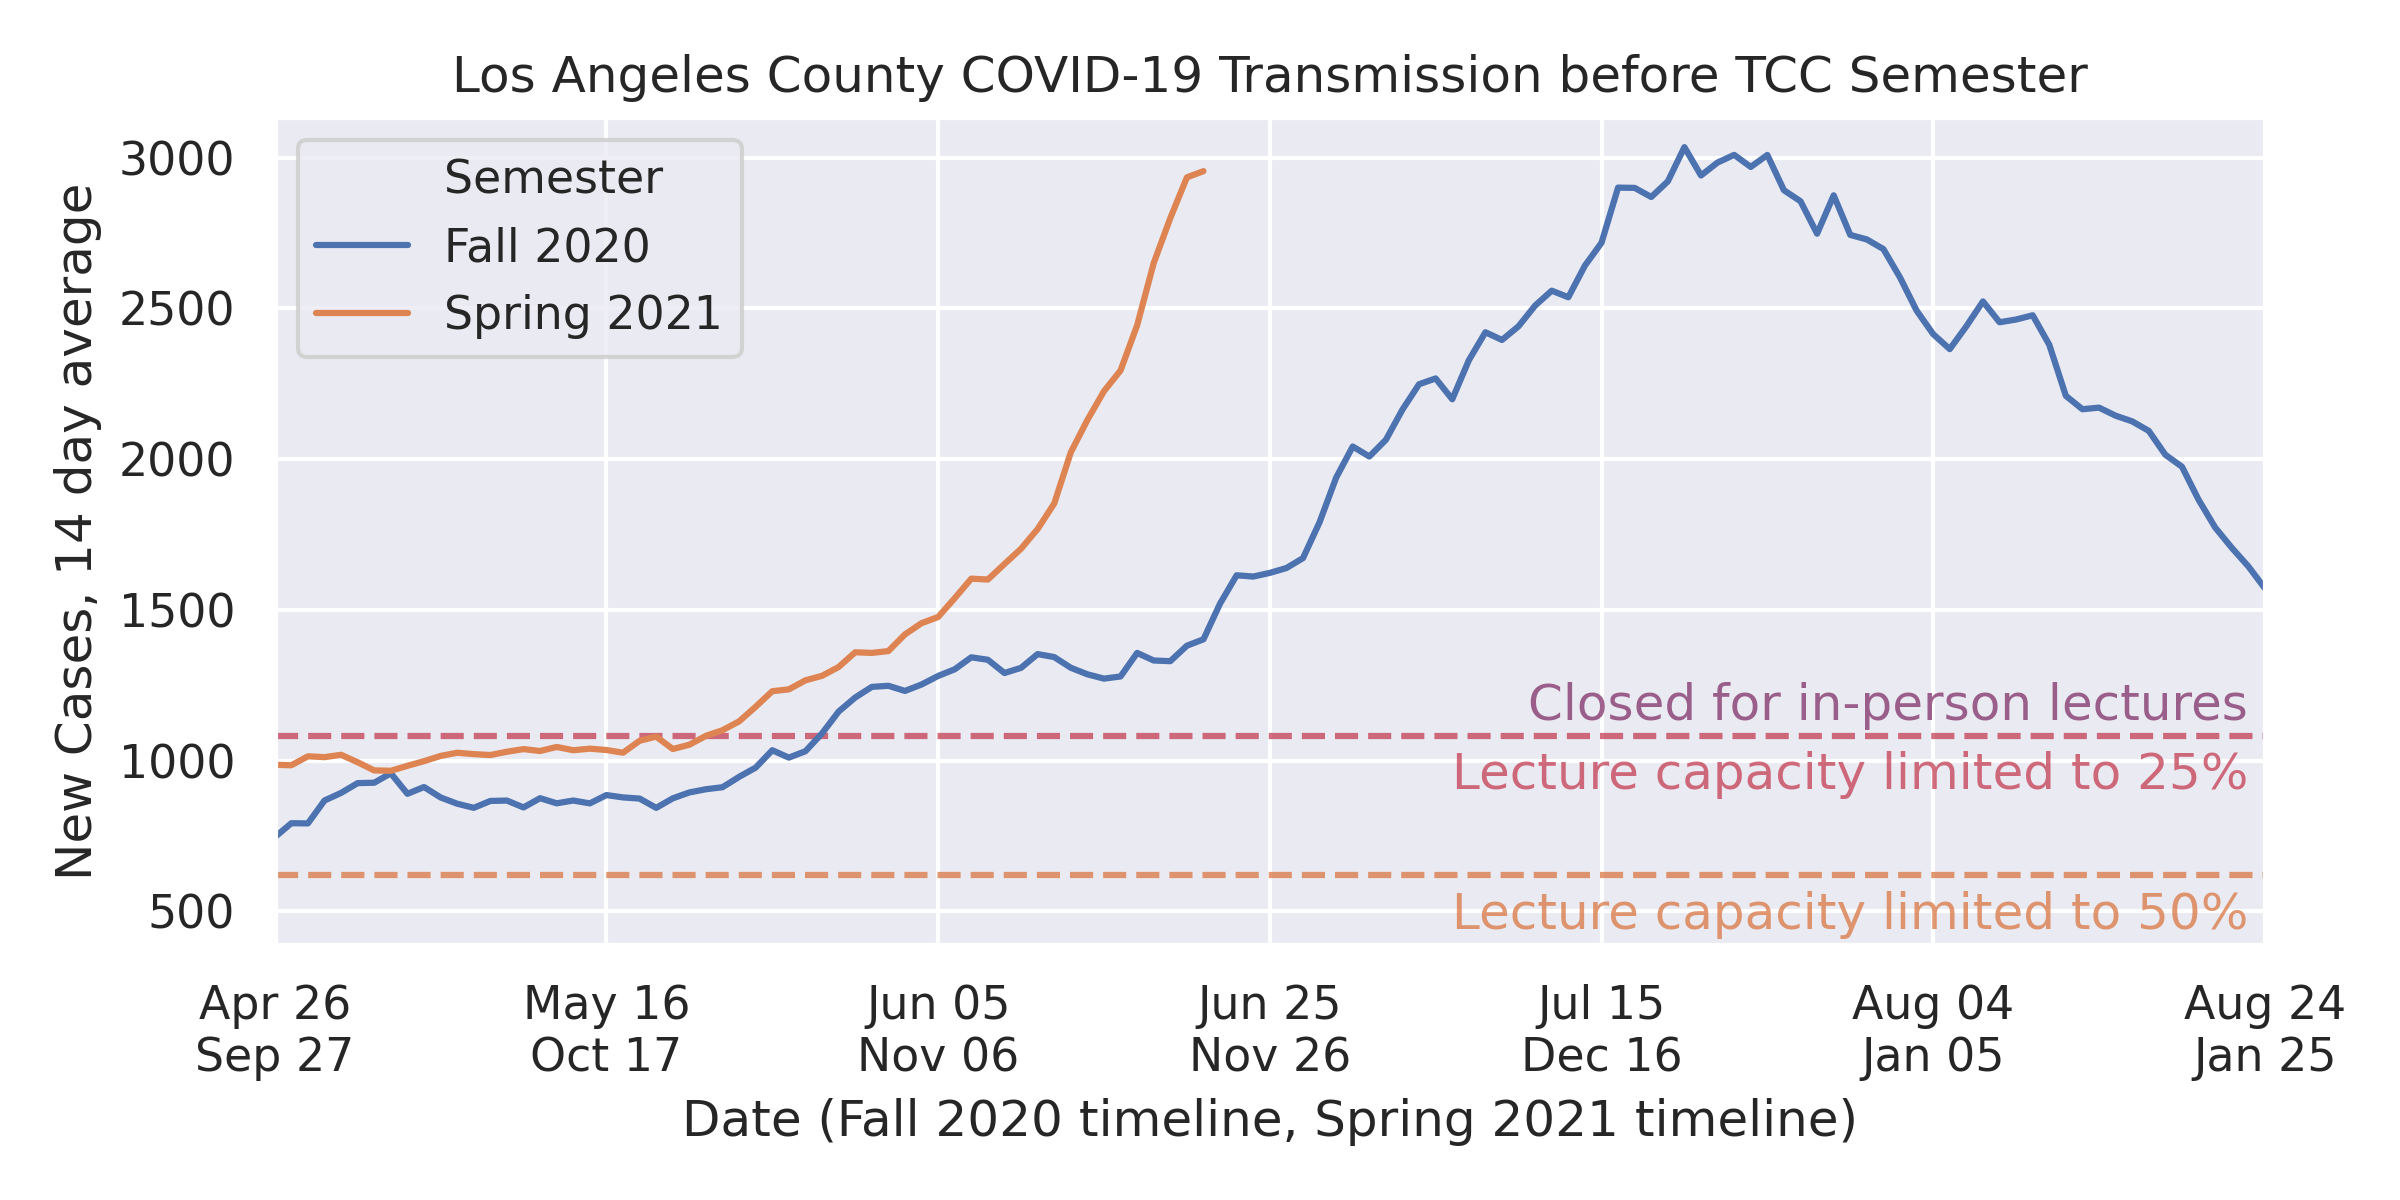
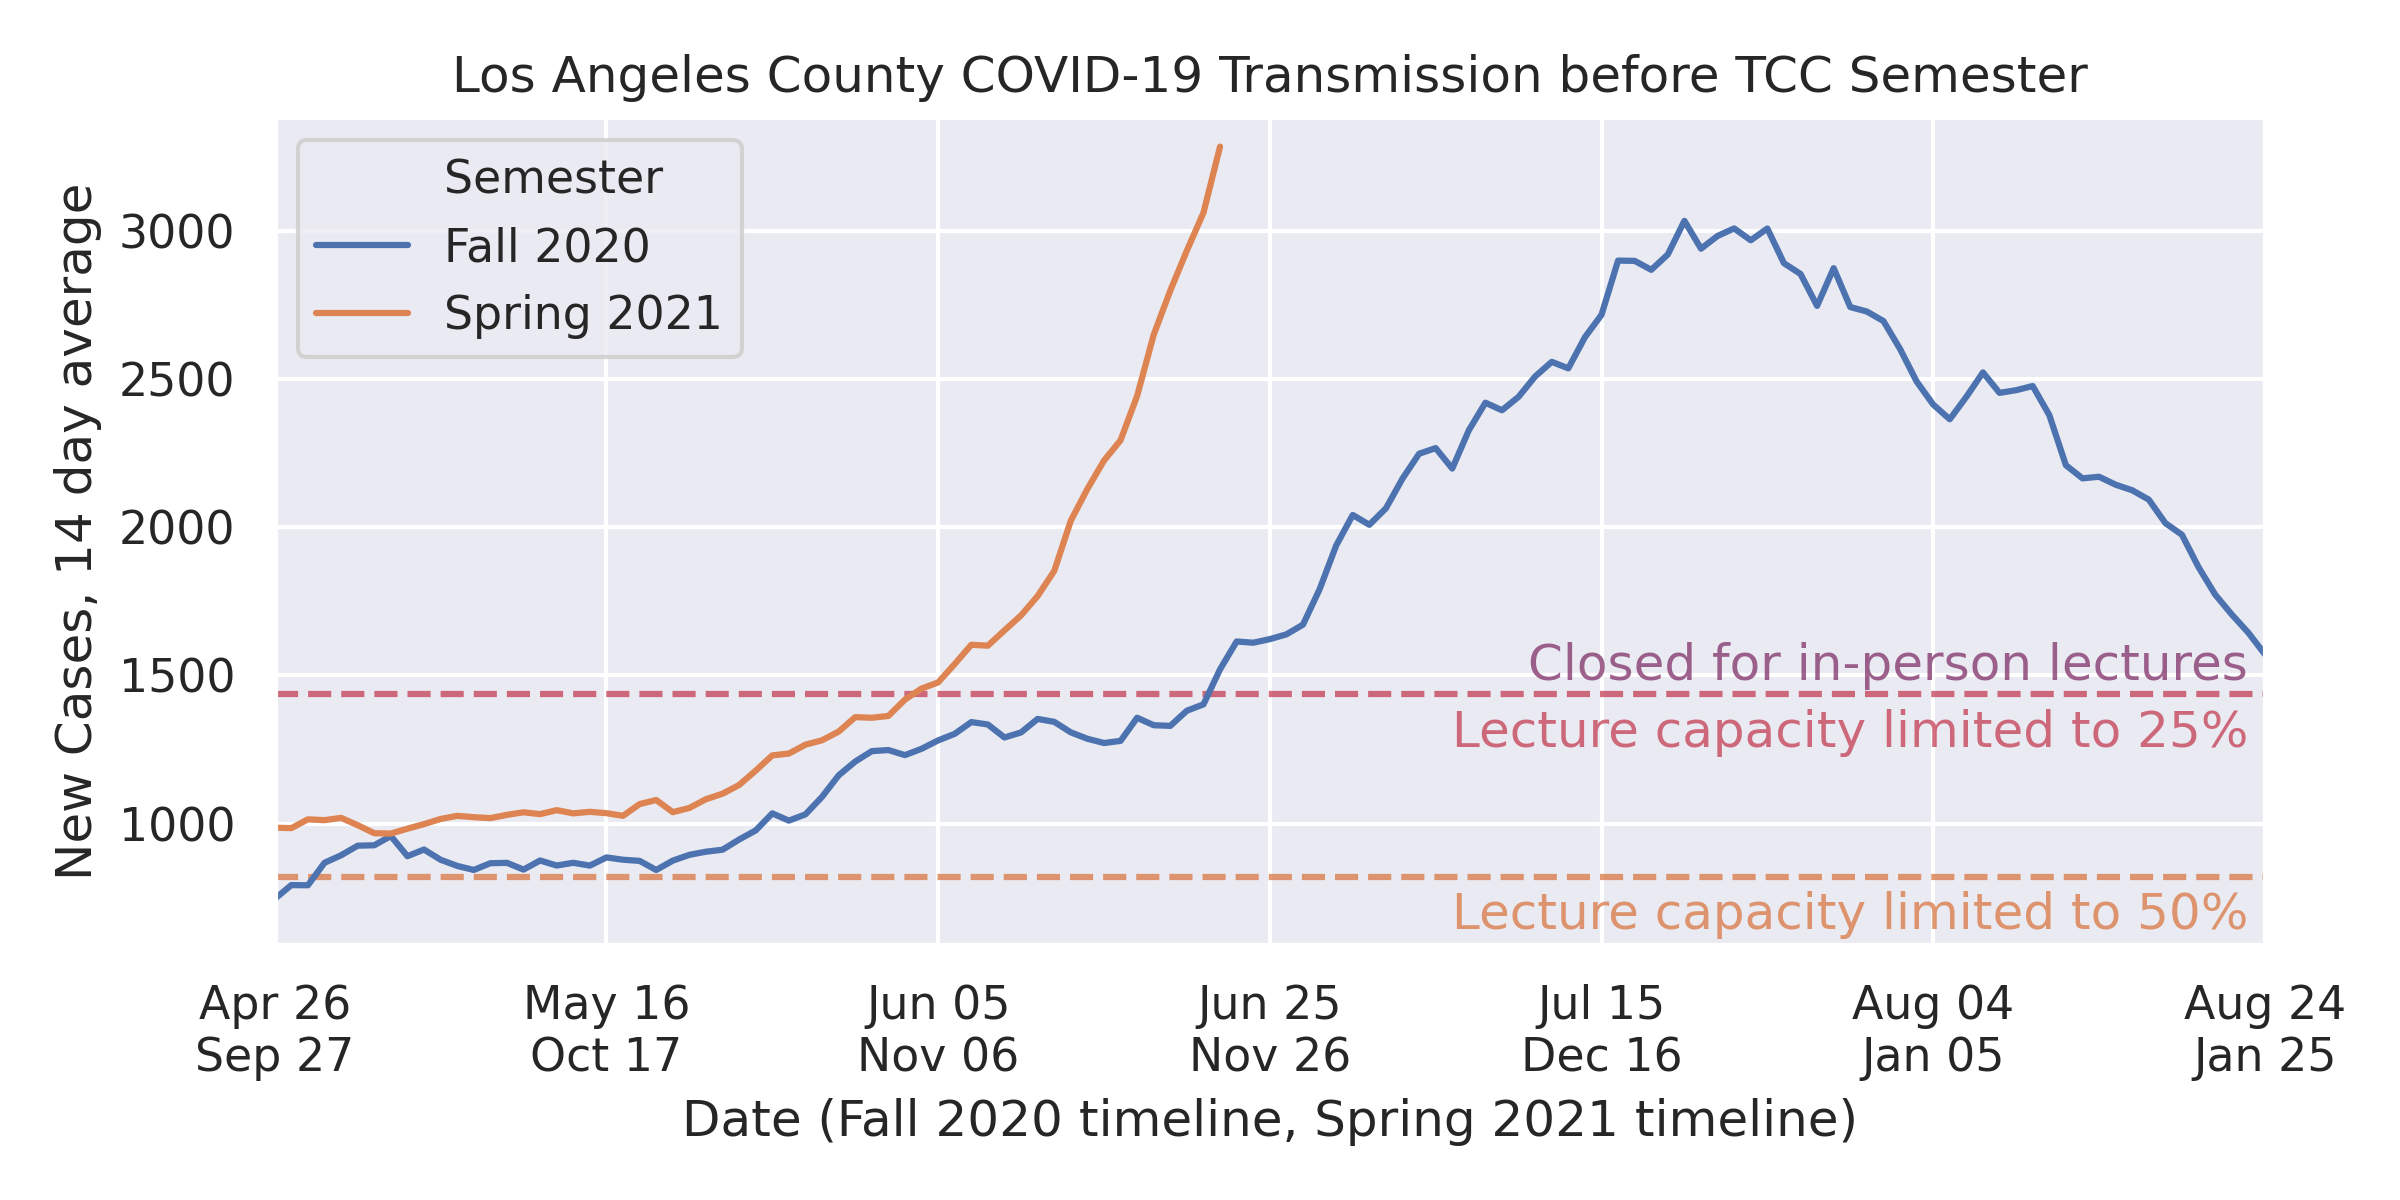
Update 2020-11-24
Case rate adjustment updated for CDPH Safer Economy 2020-11-24
LA county backloged cases added Nov 23 time series correction

diff --git a/semester_start_countdown.py b/semester_start_countdown.py
@@ -12,8 +12,8 @@
 # 
 # ## Data Sources
 # * California Department of Public Health
-#   * [COVID-19 Cases](https://data.ca.gov/dataset/covid-19-cases)
-#   * [COVID-19 Hospital Data](https://data.ca.gov/dataset/covid-19-hospital-data)
+#   * [COVID-19 Cases](https://data.ca.gov/dataset/covid-19-cases/resource/926fd08f-cc91-4828-af38-bd45de97f8c3?filters=county%3ALos+Angeles)
+#   * [COVID-19 Hospital Data](https://data.ca.gov/dataset/covid-19-hospital-data/resource/42d33765-20fd-44b8-a978-b083b7542225?filters=county%3ALos+Angeles)
 
 # In[1]:
 
@@ -84,7 +84,7 @@ fetch_ca_dataset(CA_CASES_URL, CA_CASES_CSV)
 fetch_ca_dataset(CA_HOSPITALIZED_URL, CA_HOSPITALIZED_CSV)
 
 
-# In[2]:
+# In[3]:
 
 
 df_cases = pd.read_csv(CA_CASES_CSV)
@@ -114,6 +114,10 @@ la_cases.loc[218, NEW_CASES] = la_cases.loc[218, NEW_CASES] - 600
 la_cases.loc[222, NEW_CASES] = la_cases.loc[222, NEW_CASES] + 600
 la_cases.loc[220, NEW_CASES] = la_cases.loc[220, NEW_CASES] - 600
 
+# 1,500 new cases backlog reported on November 23
+la_cases.loc[249, NEW_CASES] = la_cases.loc[249, NEW_CASES] + 1500
+la_cases.loc[250, NEW_CASES] = la_cases.loc[250, NEW_CASES] - 1500
+
 la_cases[NEW_CASES_AVG] = la_cases.loc[:, NEW_CASES].rolling(CASE_ROLLING_WINDOW).mean()
 
 df_hospitalized = pd.read_csv(CA_HOSPITALIZED_CSV).rename(columns={'todays_date': DATE})
@@ -141,7 +145,7 @@ df_la = df_la.loc[:, (DATE, SEMESTER, DAYS_UNTIL_SEMESTER,
 
 fig, ax = plt.subplots(figsize=(8, 4), dpi=300)
 
-rate_multiplier = (10_257_557 / 1e5) / 0.663
+rate_multiplier = (10_257_557 / 1e5) / 0.500
 substantial_rate, moderate_rate = [rate_multiplier * x for x in (7, 4)]
 widespread_color = '#802f67'
 substantial_color = '#c43d53'
@@ -173,7 +177,7 @@ fig.savefig('docs/semester-start-v-new-cases.png')
 fig.show()
 
 
-# In[6]:
+# In[5]:
 
 
 fig, ax = plt.subplots(figsize=(8, 4), dpi=300)
